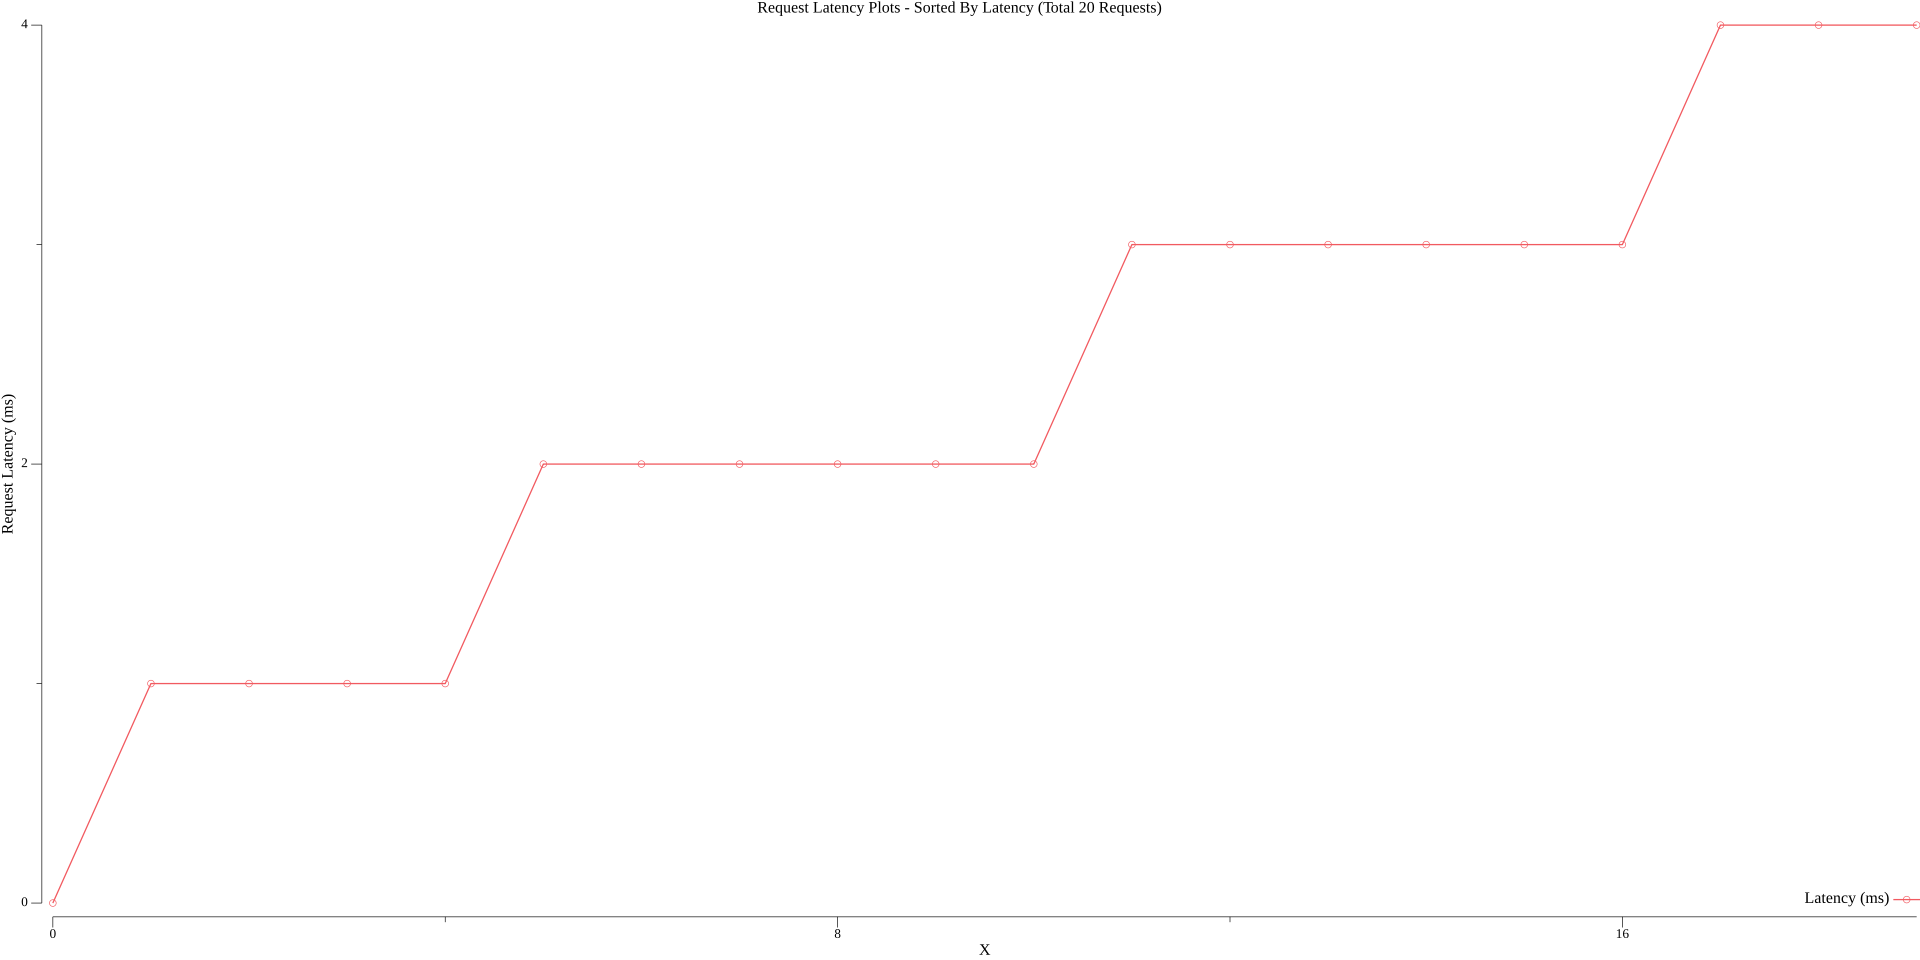
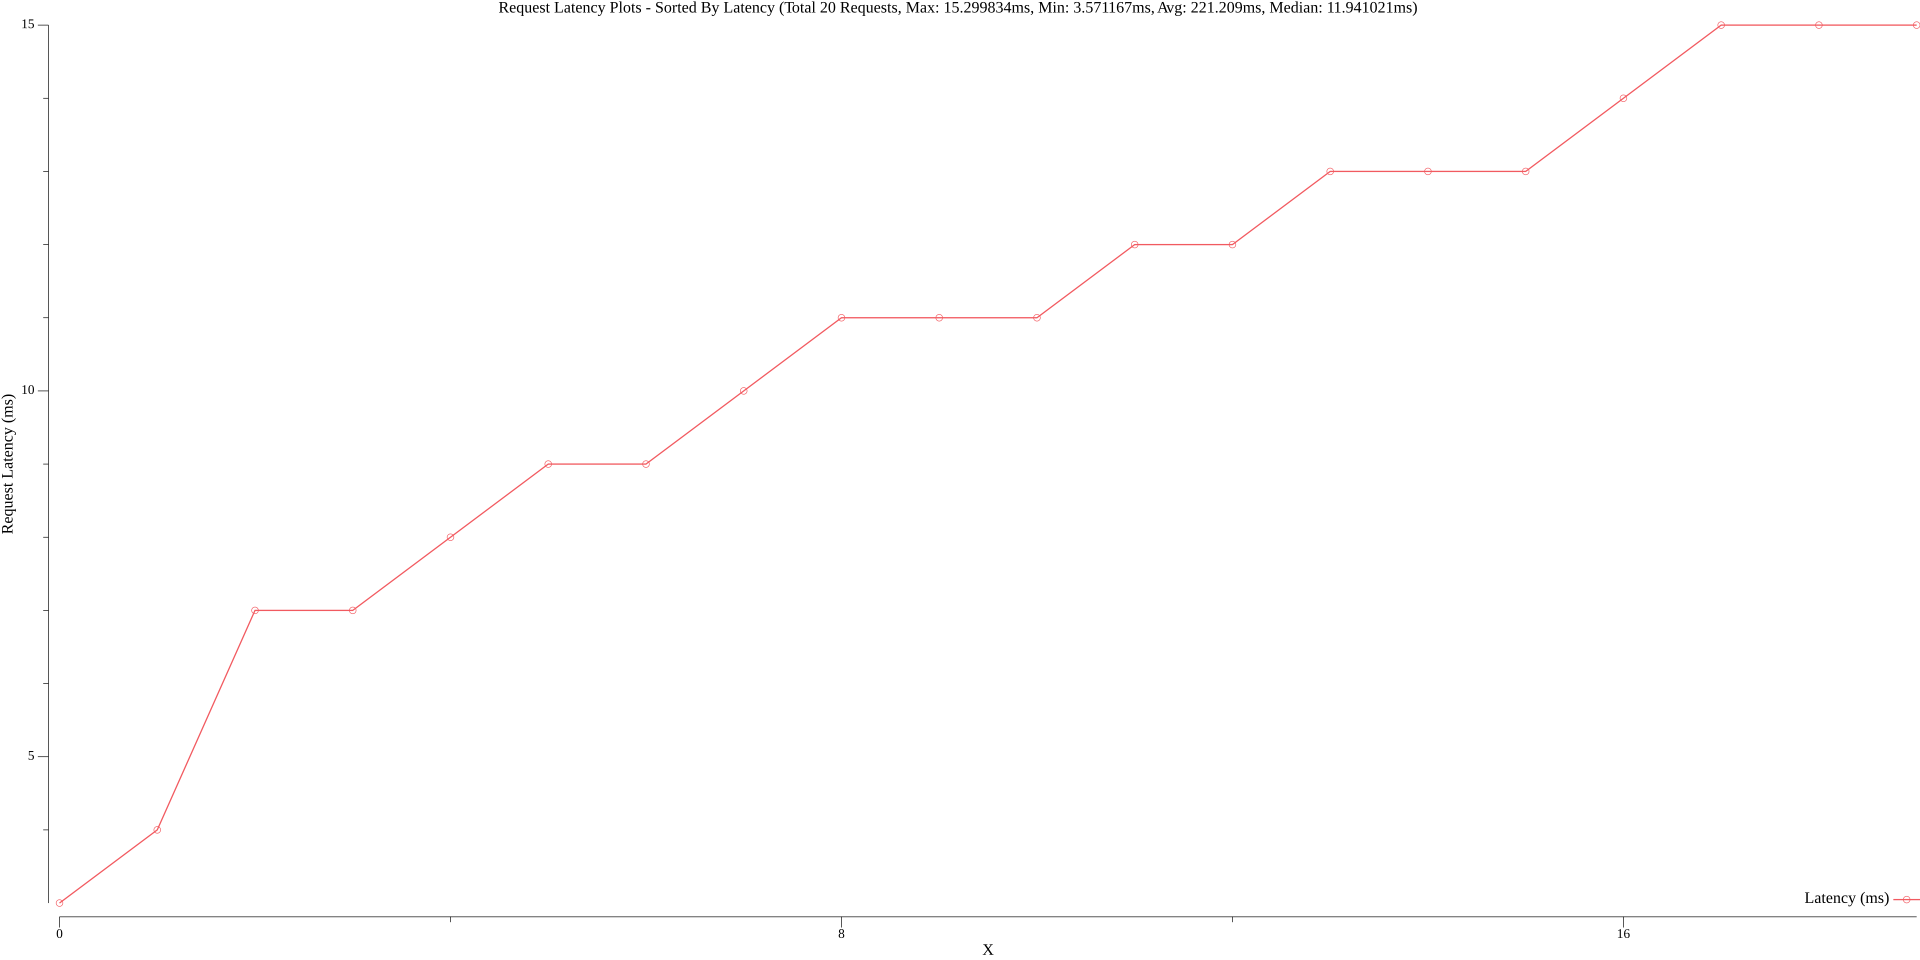
Update demo

Changed region(s): [[0.25, 0.0, 0.75, 0.0312]]

diff --git a/benchmark.go b/benchmark.go
@@ -76,7 +76,8 @@ func StartBenchmark(parallel int, round int, sendReqFunc SendRequestFunc, logSta
 	}
 
 	stats := PrintStats(store.bench, logStatFunc...)
-	titleStats := fmt.Sprintf("(Total %d Requests, Max: %v, Min: %v, Avg: %v, Median: %v)", len(store.bench), stats.Max, stats.Min, stats.Avg, stats.Med)
+	titleStats := fmt.Sprintf("(Total %d Requests, Parallelism: %v, Max: %v, Min: %v, Avg: %v, Median: %v)", len(store.bench), parallel,
+		stats.Max, stats.Min, stats.Avg, stats.Med)
 	util.Printlnf("\n--------- Plots ---------------\n")
 
 	SortOrder(store.bench) // already sorted by order in PrintStats(...)

diff --git a/README.md b/README.md
@@ -33,38 +33,50 @@ benchmarker.StartBenchmark(parallel, round, sendRequest)
 ## Output
 
 ```
-Order: 1, Took: 4.803875ms, Success: true, HttpStatus: 200, Extra: map[]
-Order: 2, Took: 4.531167ms, Success: true, HttpStatus: 200, Extra: map[]
-Order: 3, Took: 2.344125ms, Success: true, HttpStatus: 200, Extra: map[]
-Order: 4, Took: 2.041583ms, Success: true, HttpStatus: 200, Extra: map[]
-Order: 5, Took: 4.751333ms, Success: true, HttpStatus: 200, Extra: map[]
-Order: 6, Took: 3.724709ms, Success: true, HttpStatus: 200, Extra: map[]
-Order: 7, Took: 3.980334ms, Success: true, HttpStatus: 200, Extra: map[]
-Order: 8, Took: 3.173708ms, Success: true, HttpStatus: 200, Extra: map[]
-Order: 9, Took: 3.016166ms, Success: true, HttpStatus: 200, Extra: map[]
-Order: 10, Took: 1.4815ms, Success: true, HttpStatus: 200, Extra: map[]
-Order: 11, Took: 2.570334ms, Success: true, HttpStatus: 200, Extra: map[]
-Order: 12, Took: 3.305875ms, Success: true, HttpStatus: 200, Extra: map[]
-Order: 13, Took: 2.181625ms, Success: true, HttpStatus: 200, Extra: map[]
-Order: 14, Took: 1.228916ms, Success: true, HttpStatus: 200, Extra: map[]
-Order: 15, Took: 1.304166ms, Success: true, HttpStatus: 200, Extra: map[]
-Order: 16, Took: 2.35775ms, Success: true, HttpStatus: 200, Extra: map[]
-Order: 17, Took: 3.149417ms, Success: true, HttpStatus: 200, Extra: map[]
-Order: 18, Took: 782.917µs, Success: true, HttpStatus: 200, Extra: map[]
-Order: 19, Took: 1.90025ms, Success: true, HttpStatus: 200, Extra: map[]
-Order: 20, Took: 2.904ms, Success: true, HttpStatus: 200, Extra: map[]
+Order: 1, Took: 13.032791ms, Success: true, HttpStatus: 200, Extra: map[]
+Order: 2, Took: 14.089ms, Success: true, HttpStatus: 200, Extra: map[]
+Order: 3, Took: 15.168084ms, Success: true, HttpStatus: 200, Extra: map[]
+Order: 4, Took: 8.655709ms, Success: true, HttpStatus: 200, Extra: map[]
+Order: 5, Took: 11.956125ms, Success: true, HttpStatus: 200, Extra: map[]
+Order: 6, Took: 3.571167ms, Success: true, HttpStatus: 200, Extra: map[]
+Order: 7, Took: 15.091167ms, Success: true, HttpStatus: 200, Extra: map[]
+Order: 8, Took: 15.299834ms, Success: true, HttpStatus: 200, Extra: map[]
+Order: 9, Took: 11.925917ms, Success: true, HttpStatus: 200, Extra: map[]
+Order: 10, Took: 10.944333ms, Success: true, HttpStatus: 200, Extra: map[]
+Order: 11, Took: 7.628208ms, Success: true, HttpStatus: 200, Extra: map[]
+Order: 12, Took: 9.466166ms, Success: true, HttpStatus: 200, Extra: map[]
+Order: 13, Took: 12.553333ms, Success: true, HttpStatus: 200, Extra: map[]
+Order: 14, Took: 11.110625ms, Success: true, HttpStatus: 200, Extra: map[]
+Order: 15, Took: 7.528167ms, Success: true, HttpStatus: 200, Extra: map[]
+Order: 16, Took: 9.468917ms, Success: true, HttpStatus: 200, Extra: map[]
+Order: 17, Took: 12.566166ms, Success: true, HttpStatus: 200, Extra: map[]
+Order: 18, Took: 4.235625ms, Success: true, HttpStatus: 200, Extra: map[]
+Order: 19, Took: 13.418625ms, Success: true, HttpStatus: 200, Extra: map[]
+Order: 20, Took: 13.499041ms, Success: true, HttpStatus: 200, Extra: map[]
 
--------------------------------
+--------- Count ---------------
 
-total: 20
-min: 782.917µs
-max: 4.803875ms
-median: 2.737167ms
-avg: 2.776687ms
+total_count: 20
 status_count: map[200:20]
 success_count: map[true:20]
+
+--------- Latency -------------
+
+min: 3.571167ms
+max: 15.299834ms
+median: 11.941021ms
+avg: 11.06045ms
+p75: 13.418625ms
+p90: 15.091167ms
+p95: 15.168084ms
+p99: 15.299834ms
+
+--------- Plots ---------------
+
 Generated plot graph: plots_sorted_by_request_order.png
 Generated plot graph: plots_sorted_by_latency.png
+
+-------------------------------
 ```
 
 ## Plots
